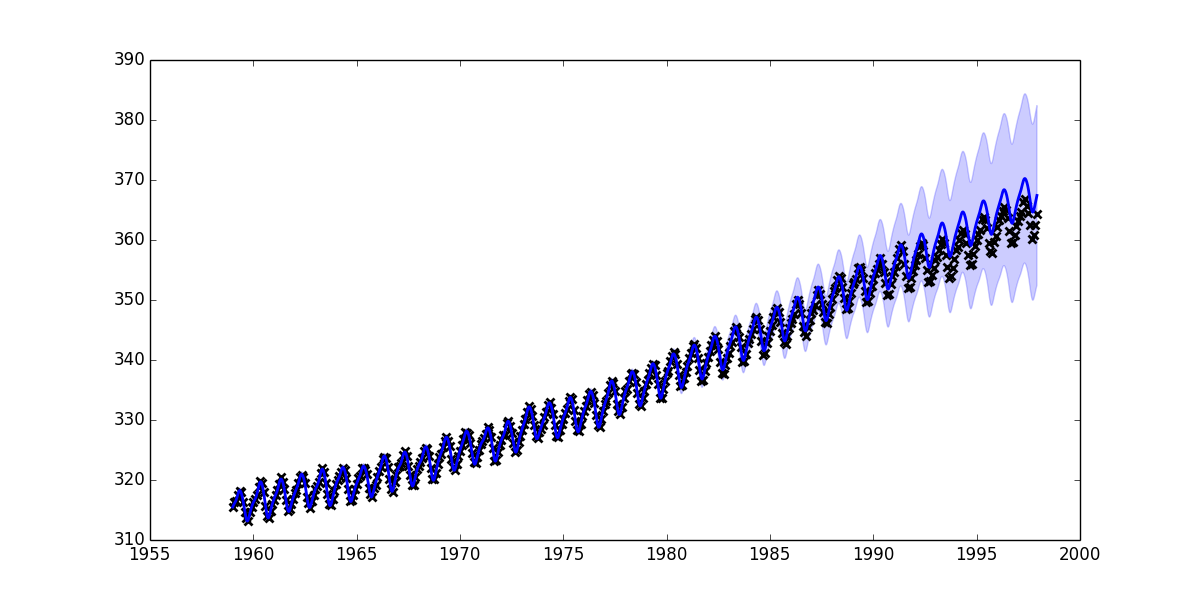
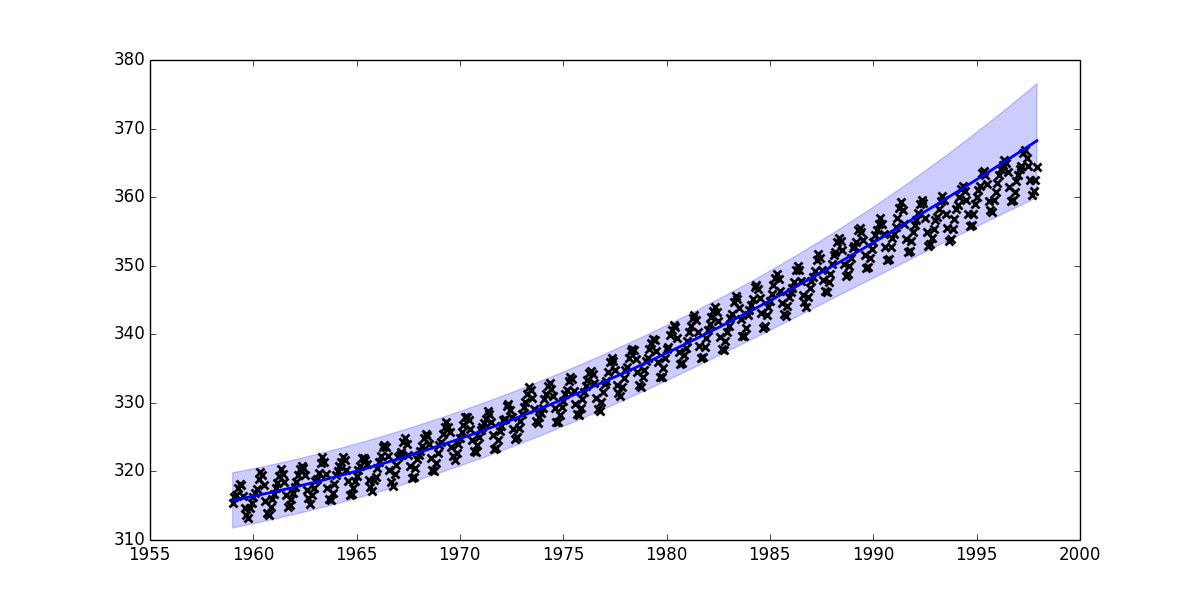
Adding airline dataset.

diff --git a/GP_experiments/kernels/CustomKernels.py b/GP_experiments/kernels/CustomKernels.py
@@ -22,3 +22,19 @@ def mauna_loa_kernel():
          gpflow.kernels.White(1, variance=0.19**2)
 
     return k1 + k2 + k3 + k4
+
+
+def spectral_mixture():
+    """
+    Based on this implementation by James Hensman:
+    https://github.com/GPflow/GPflow/issues/312#issuecomment-272425105
+
+    NOTE: This doesn't work! It's not capturing the seasonal periodic component.
+    """
+
+    return (gpflow.kernels.Constant(1) * gpflow.kernels.RBF(1) *
+            gpflow.kernels.Cosine(1)) + \
+           (gpflow.kernels.Constant(1) * gpflow.kernels.RBF(1) *
+            gpflow.kernels.Cosine(1)) + \
+           (gpflow.kernels.Constant(1) * gpflow.kernels.RBF(1) *
+            gpflow.kernels.Cosine(1))

diff --git a/GP_experiments/gp_regression.py b/GP_experiments/gp_regression.py
@@ -21,11 +21,13 @@ X_train = np.array(train_data['Time']).reshape((len(train_data), 1))
 Y_train = np.array(train_data['CO2Concentration']).reshape((len(train_data), 1))
 
 # Use custom kernel to model the data:
-custom_kernel = mauna_loa_kernel()
+custom_kernel = spectral_mixture()
 m = gpflow.gpr.GPR(X_train, Y_train, kern=custom_kernel)
 
 # Fit GPR to the training data
 m.optimize()
+
+print m
 
 # Create 5000 X points from start to end of the dataset.
 xx = np.linspace(min(df["Time"]), max(df["Time"]), 5000)[:, None]

diff --git a/GP_experiments/kernels/SpectralMixture.py b/GP_experiments/kernels/SpectralMixture.py
@@ -1,0 +1,18 @@
+import gpflow
+import tensorflow as tf
+
+
+class SpectralMixture(gpflow.kernels.Kern):
+
+    def __init__(self):
+        gpflow.kernels.Kern.__init__(self, input_dim=1, active_dims=[0])
+        self.variance = gpflow.param.Param(1.0, transform=gpflow.transforms.positive)
+
+    def K(self, X, X2=None):
+        if X2 is None:
+            X2 = X
+        pass
+
+    def Kdiag(self, X):
+        # return self.variance * tf.reshape(X, (-1,))
+        pass
